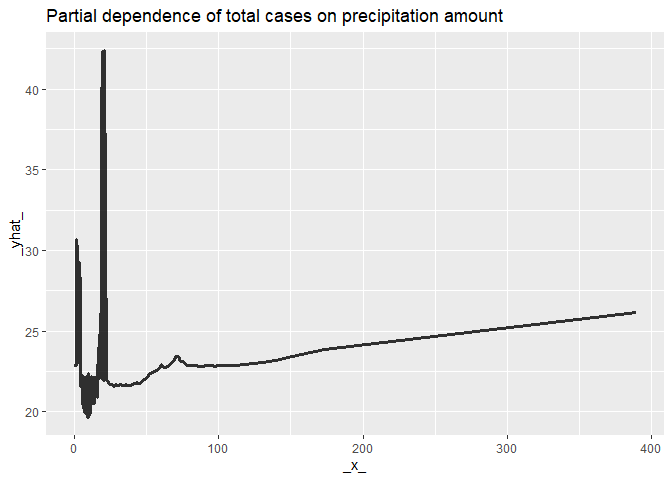
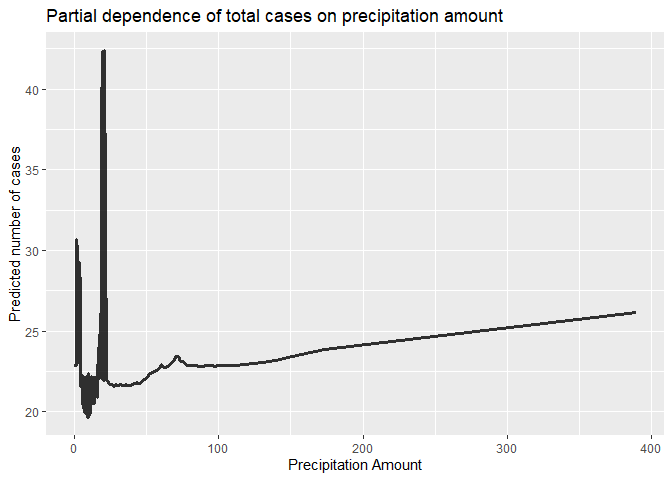
fixed plot labels

Changed region(s): [[0.4375, 0.9375, 0.625, 1.0], [0.0, 0.3125, 0.0312, 0.6875]]

diff --git a/homework/DM_Homework_3.md b/homework/DM_Homework_3.md
@@ -288,10 +288,9 @@ house value because of the high possibility of interactions between
 variables that I can’t see myself. To find the best predictive model, I
 compare the performance of a gradient boosted tree to a stepwise model.
 
-The baseline model for stepwise selection was
-`lm(medianHouseValue ~ . - longitude - latitude, data = ca_train).`
-
-I then created an aribitrary boost specification and found optimal
+The baseline model for stepwise selection was a linear regression of
+median house value on all variables excluding location coordinates. I
+then created an aribitrary boost specification and found optimal
 hyperparameters using the `tune()` function and a tuning grid. This
 approach uses cross-validation to find the best possible boosted model.
 The optimal parameters selected were:
